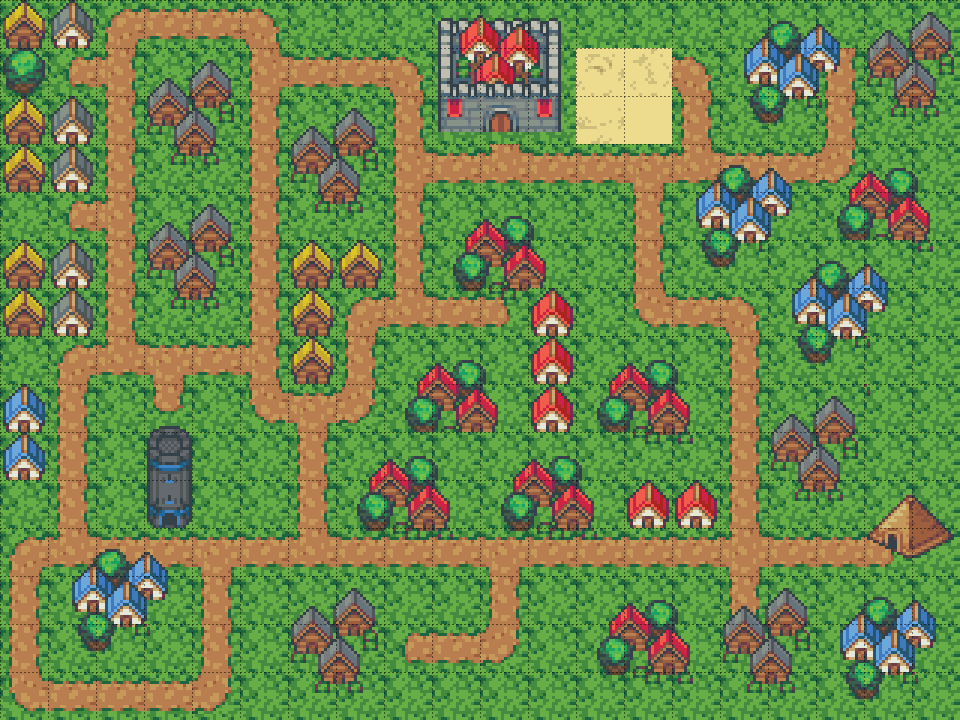
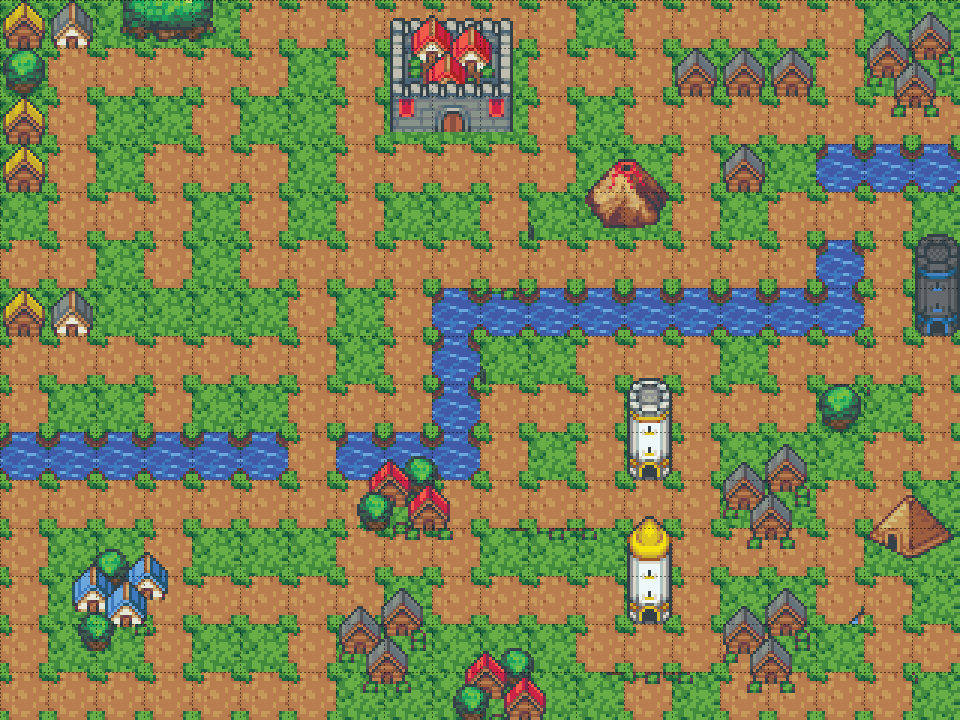
path

diff --git a/path/stages.js b/path/stages.js
@@ -1,17 +1,17 @@
 var pathfindMap = [
-    [0,0,1,1,1,1,0,0,0,0,0,0,0,0,0,0,0,0,0,0],
-    [0,1,1,0,0,1,1,1,1,0,0,0,0,0,1,0,0,1,0,0],
-    [0,0,1,0,0,1,0,0,1,0,0,0,0,0,1,0,0,1,0,0],
-    [0,0,1,0,0,1,0,0,1,1,1,1,1,1,1,1,1,1,0,0],
-    [0,1,1,0,0,1,0,0,1,0,0,0,0,1,0,0,0,0,0,0],
-    [0,0,1,0,0,1,0,0,1,0,0,0,0,1,0,0,0,0,0,0],
-    [0,0,1,0,0,1,0,1,1,1,1,0,0,1,1,1,0,0,0,0],
-    [0,1,1,1,1,1,0,1,0,0,0,0,0,0,0,1,0,0,0,0],
-    [0,1,0,1,0,1,1,1,0,0,0,0,0,0,0,1,0,0,0,0],
-    [0,1,0,0,0,0,1,0,0,0,0,0,0,0,0,1,0,0,0,0],
-    [0,1,0,0,0,0,1,0,0,0,0,0,0,0,0,1,0,0,0,0],
-    [1,1,1,1,1,1,1,1,1,1,1,1,1,1,1,1,1,1,1,0],
-    [1,0,0,0,1,0,0,0,0,0,1,0,0,0,0,1,0,0,0,0],
-    [1,0,0,0,1,0,0,0,1,1,1,0,0,0,0,1,0,0,0,0],
-    [1,1,1,1,1,0,0,0,0,0,0,0,0,0,0,0,0,0,0,0]
-];
+    [0,0,0,0,0,1,1,1,1,1,1,1,0,1,1,1,1,1,0,0],
+    [0,1,1,1,1,1,0,1,0,0,0,1,1,1,0,0,0,1,0,0],
+    [0,1,0,0,1,0,0,1,0,0,0,1,0,1,1,1,1,1,1,1],
+    [0,1,0,1,1,1,0,1,1,1,1,1,0,0,1,0,0,0,0,0],
+    [0,1,1,1,0,1,0,1,0,0,1,0,0,0,1,0,1,1,1,0],
+    [1,1,0,1,0,1,1,1,1,1,1,1,1,1,1,1,1,0,1,0],
+    [0,0,0,0,0,0,1,0,1,0,0,0,0,0,0,0,0,0,1,0],
+    [1,1,1,1,1,1,1,0,1,0,0,0,1,1,1,0,1,1,1,1],
+    [1,0,0,1,0,0,1,1,1,0,1,1,1,0,1,1,1,0,0,1],
+    [0,0,0,0,0,0,1,0,0,0,1,0,1,0,1,0,0,0,1,1],
+    [1,1,1,1,1,1,1,1,0,1,1,1,1,1,1,0,0,1,1,0],
+    [1,0,0,1,0,0,0,1,1,1,0,0,0,0,1,1,1,1,0,0],
+    [1,0,0,1,1,1,1,1,0,1,1,1,1,0,1,0,0,1,1,0],
+    [1,0,0,1,0,0,1,0,0,0,0,0,1,1,1,1,0,0,1,1],
+    [1,1,1,1,1,1,1,0,0,0,0,0,0,1,0,1,1,1,1,0]
+];    
